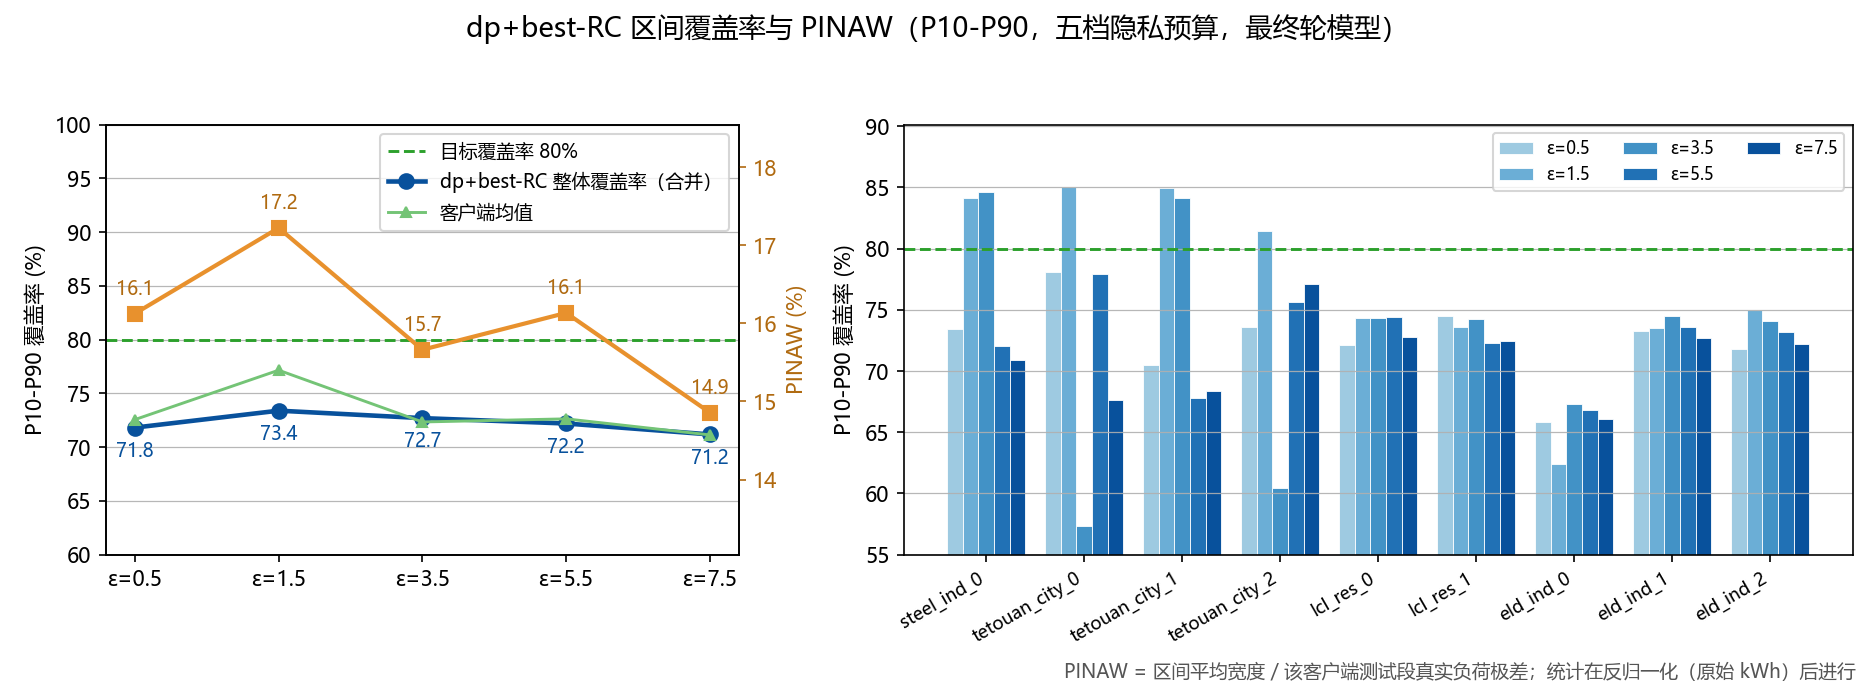
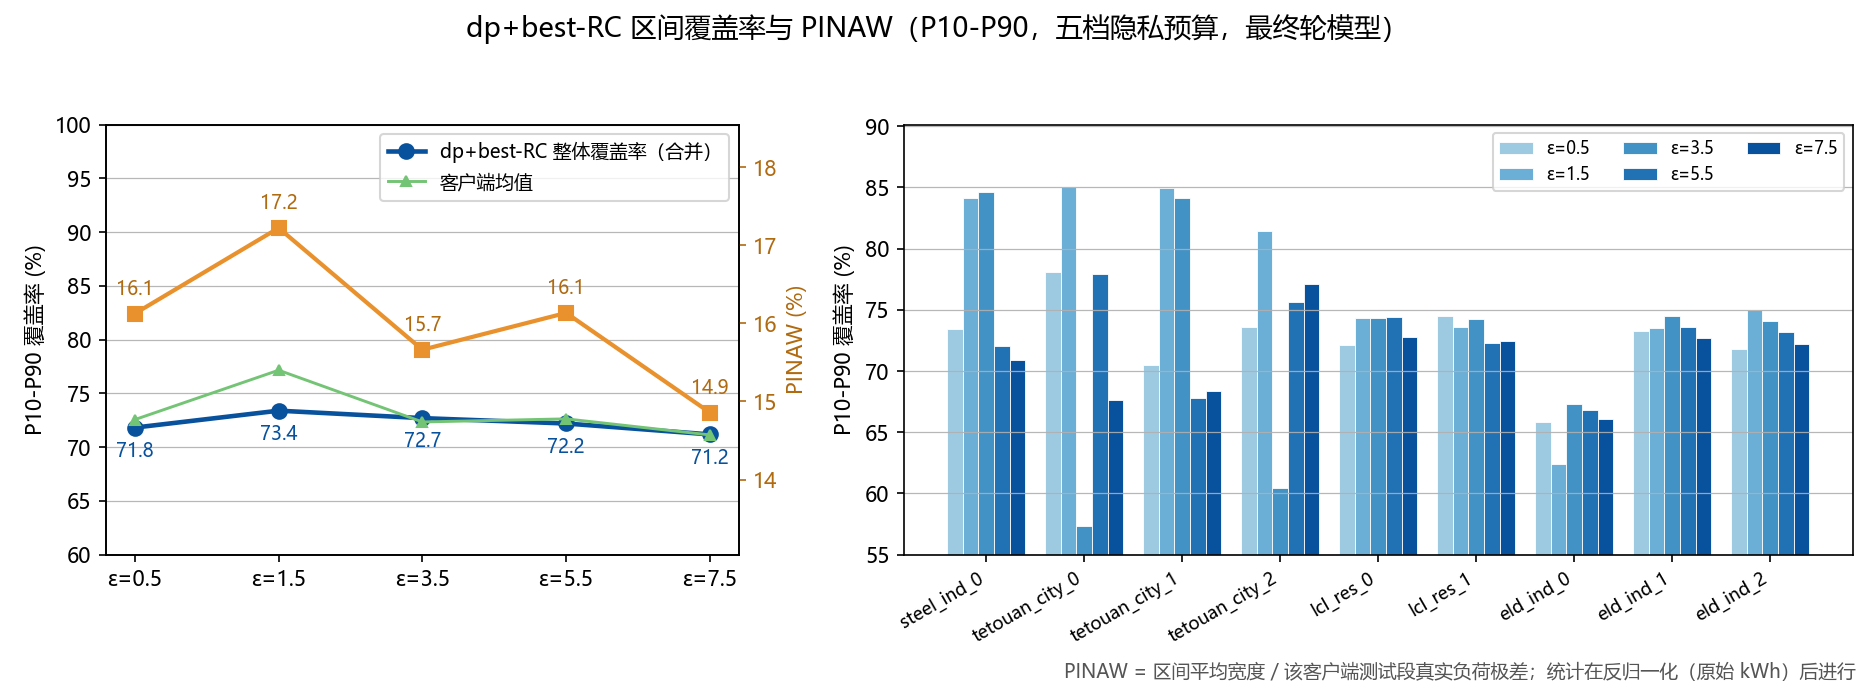
feat: 添加图形重绘功能以从现有结果 JSON 生成覆盖率图

diff --git a/fl_code/coverage_eval.py b/fl_code/coverage_eval.py
@@ -9,7 +9,7 @@ rolling-forecast protocol as training (input 144 steps / horizon 6, gap-free
 stride 6, prev-residual chain for the Corrector), and measures how often the
 actual load falls inside the predicted [P10, P90] interval:
 
-    coverage = mean(P10 <= y_true <= P90)      target ~ 80%
+    coverage = mean(P10 <= y_true <= P90)
 
 All interval bounds and actuals are de-normalised per sequence (log1p +
 z-score) before comparison, so numbers are in raw kWh units.
@@ -24,13 +24,14 @@ Outputs
 -------
 - ``fl_code/analysis/coverage/coverage_results.json``
 - ``fl_code/analysis/figs/fig_coverage_epsilon.png``  (aggregate coverage vs
-  epsilon + per-client bars, 80% target line)
+  epsilon + per-client coverage bars)
 
 Usage::
 
     python -m fl_code.coverage_eval
     python -m fl_code.coverage_eval --eps 0.5 7.5 --max-windows 2000
     python -m fl_code.coverage_eval --clients steel_ind_0 lcl_res_0
+    python -m fl_code.coverage_eval --fig-only   # redraw figures from the JSON
 """
 
 from __future__ import annotations
@@ -58,7 +59,6 @@ DEFAULT_FIG_DIR = ROOT / "fl_code" / "analysis" / "figs"
 
 EPS_LIST = ("0.5", "1.5", "3.5", "5.5", "7.5")
 RC_TYPES = ("mlp", "lstm", "tcn")
-TARGET_COVERAGE = 0.80
 
 # matplotlib palette (matches make_figures convention)
 EPS_COLORS = {
@@ -319,7 +319,6 @@ def make_figure(results: dict, eps_list: list[str], fig_path: Path,
     matplotlib.use("Agg")
     import matplotlib.pyplot as plt
 
-    T = TARGET_COVERAGE
     agg = results["aggregate"]
     per = results["per_client"]
     cids = results["client_order"]
@@ -334,9 +333,6 @@ def make_figure(results: dict, eps_list: list[str], fig_path: Path,
     cov_macro = [agg[e].get("coverage_macro") * 100 for e in eps_list]
     pinaw = [agg[e].get("pinaw_macro") * 100 for e in eps_list]
 
-    ax1.axhline(T * 100, color="#2ca02c", ls="--", lw=1.4,
-                label=(f"目标覆盖率 {T * 100:.0f}%" if cn
-                       else f"target coverage {T * 100:.0f}%"))
     ax1.plot(x, cov, "-o", color="#08519c", lw=2.2, ms=7, zorder=3,
              label=("dp+best-RC 整体覆盖率（合并）" if cn
                     else "pooled coverage"))
@@ -377,11 +373,10 @@ def make_figure(results: dict, eps_list: list[str], fig_path: Path,
                    if not all(np.isnan(v) for v in vals) else 0)
         ax2.bar(np.arange(n_c) + (i - n_e / 2 + 0.5) * w, vals, w,
                 label=f"ε={e}", color=EPS_COLORS[e], edgecolor="white", lw=0.4)
-    ax2.axhline(T * 100, color="#2ca02c", ls="--", lw=1.4)
     ax2.set_xticks(np.arange(n_c))
     ax2.set_xticklabels(cids, rotation=30, ha="right", fontsize=8.5)
     ax2.set_ylabel("P10-P90 覆盖率 (%)" if cn else "P10-P90 coverage (%)")
-    ax2.set_ylim(min(55, min(cov) - 6), max(xmax, T * 100) * 1.06)
+    ax2.set_ylim(min(55, min(cov) - 6), xmax * 1.06)
     ax2.grid(axis="y", color="#b0b0b0", lw=0.6, alpha=0.9)
     ax2.legend(loc="upper right", ncol=3, fontsize=8)
 
@@ -451,7 +446,32 @@ def make_pinaw_figure(results: dict, eps_list: list[str], fig_path: Path,
 # Main
 # ---------------------------------------------------------------------------
 
+def redraw_figures(results: dict, eps_list: list[str], fig_dir: Path,
+                   cn: bool) -> None:
+    fig_dir.mkdir(parents=True, exist_ok=True)
+    fig_path = fig_dir / "fig_coverage_epsilon.png"
+    make_figure(results, eps_list, fig_path, cn)
+    print(f"Saved: {fig_path}")
+    pin_path = fig_dir / "fig_pinaw_per_client.png"
+    make_pinaw_figure(results, eps_list, pin_path, cn)
+    print(f"Saved: {pin_path}")
+
+
 def main(args: argparse.Namespace) -> None:
+    if args.fig_only:
+        json_path = Path(args.output_json) if args.output_json else DEFAULT_JSON
+        with open(json_path) as f:
+            results = json.load(f)
+        eps_list = [e.replace("epsilon-", "") for e in results["aggregate"]]
+        print(f"Fig-only redraw from {json_path}  (eps: {eps_list})")
+        redraw_figures({"aggregate": results["aggregate"],
+                        "per_client": results["per_client"],
+                        "client_order": results["client_order"]},
+                       eps_list,
+                       Path(args.fig_dir) if args.fig_dir else DEFAULT_FIG_DIR,
+                       setup_cn_font())
+        return
+
     device = args.device or ("cuda" if torch.cuda.is_available() else "cpu")
     print(f"Device: {device}")
     eps_list = [e.replace("epsilon-", "") for e in args.eps]
@@ -529,7 +549,6 @@ def main(args: argparse.Namespace) -> None:
             "pinaw_macro": float(np.mean(pinaws)) if pinaws else float("nan"),
             "n_total": n_tot,
             "num_clients": len(covs),
-            "target": TARGET_COVERAGE,
         }
         a = aggregate[eps]
         print(f"[ε={eps:4s}] pooled coverage={a['coverage_pooled'] * 100:.2f}%  "
@@ -555,22 +574,18 @@ def main(args: argparse.Namespace) -> None:
     print(f"\nSaved JSON: {out_json}")
 
     cn = setup_cn_font()
-    fig_dir = Path(args.fig_dir) if args.fig_dir else DEFAULT_FIG_DIR
-    fig_path = fig_dir / "fig_coverage_epsilon.png"
-    fig_path.parent.mkdir(parents=True, exist_ok=True)
-    make_figure({"aggregate": aggregate, "per_client": per_client,
-                 "client_order": client_ids}, eps_list, fig_path, cn)
-    print(f"Saved: {fig_path}")
-    pin_path = fig_dir / "fig_pinaw_per_client.png"
-    make_pinaw_figure({"per_client": per_client, "client_order": client_ids},
-                      eps_list, pin_path, cn)
-    print(f"Saved: {pin_path}")
+    redraw_figures({"aggregate": aggregate, "per_client": per_client,
+                    "client_order": client_ids}, eps_list,
+                   Path(args.fig_dir) if args.fig_dir else DEFAULT_FIG_DIR, cn)
 
 
 if __name__ == "__main__":
     parser = argparse.ArgumentParser(
         description="P10-P90 interval coverage for dp+best-RC across the "
                     "epsilon sweep (final-round DP global checkpoints)")
+    parser.add_argument("--fig-only", action="store_true",
+                        help="redraw both figures from an existing results "
+                             "JSON (no models, no evaluation) and exit")
     parser.add_argument("--eps", nargs="*", default=list(EPS_LIST),
                         help=f"Epsilon labels (default: {list(EPS_LIST)})")
     parser.add_argument("--round", type=int, default=30,
